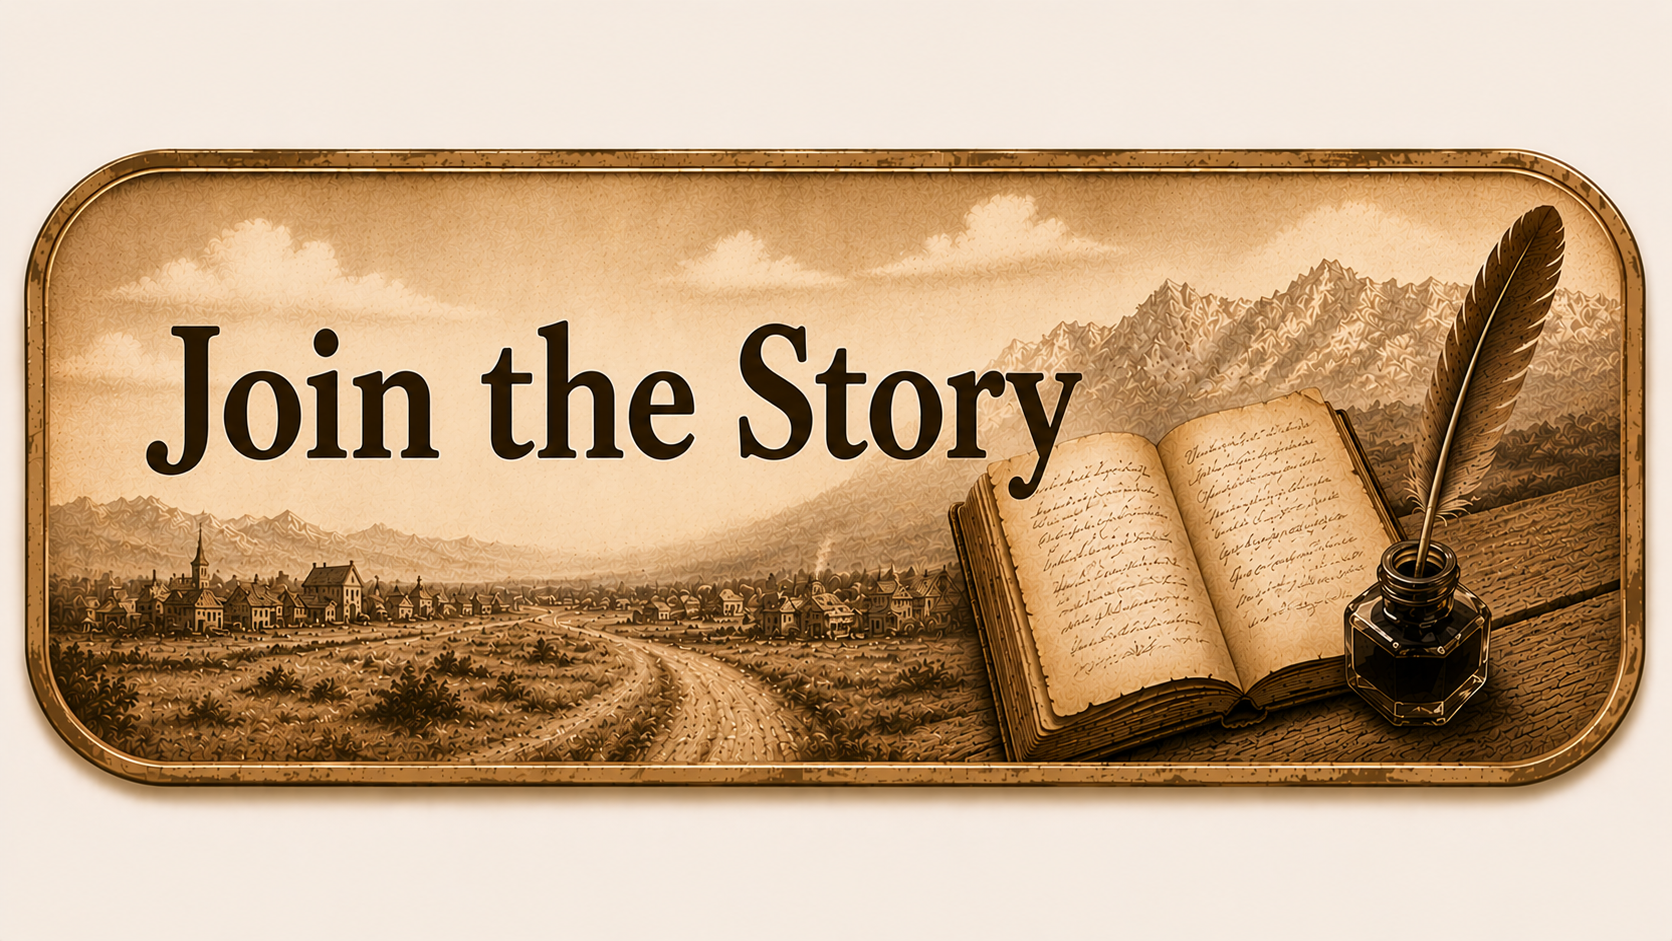
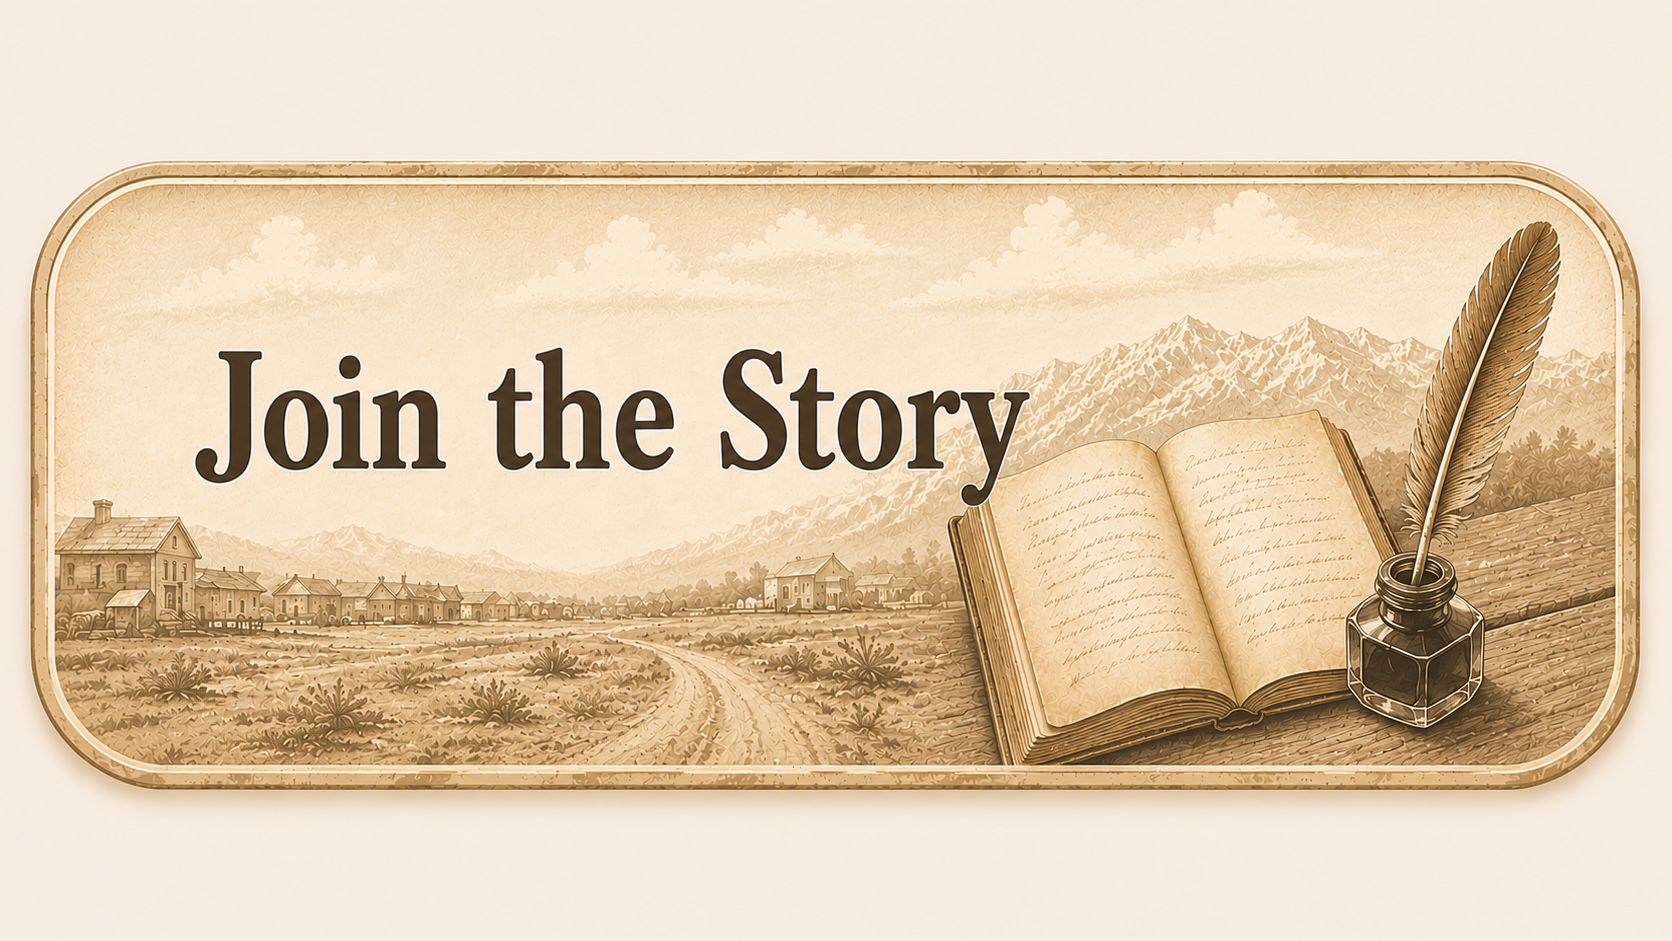
Add files via upload

diff --git a/support-us.html b/support-us.html
@@ -4,56 +4,10 @@
   <meta charset="utf-8">
   <meta name="viewport" content="width=device-width, initial-scale=1">
   <title>Join the Story | Hands on History Utah</title>
-  <meta name="description" content="Hands on History Utah is an interactive historical adventure where families and groups experience life in the 1800s through hands-on experiences, teamwork, and storytelling.">
-  <link rel="stylesheet" href="css/styles.css">
+  <meta http-equiv="refresh" content="0; url=join-the-story.html">
+  <link rel="canonical" href="join-the-story.html">
 </head>
-<body><header class="site-header">
-  <div class="nav-inner">
-    <a href="index.html" class="nav-link">Home</a>
-    <span class="star">★</span>
-    <a href="experience-life-in-the-1800s.html" class="nav-link">Experience Life in the 1800s</a>
-    <span class="star">★</span>
-    <a href="historical-adventure.html" class="nav-link">Historical Adventure</a>
-    <span class="star">★</span>
-    <a href="visit.html" class="nav-link">Visit</a>
-    <span class="star">★</span>
-    <a href="support-us.html" class="nav-link">Join the Story</a>
-    <span class="star">★</span>
-    <a href="volunteer.html" class="nav-link">Volunteer</a>
-    <span class="star">★</span>
-    <a href="about.html" class="nav-link">About</a>
-    <span class="star">★</span>
-    <a href="contact.html" class="nav-link">Contact</a>
-    <button class="menu-toggle" type="button" aria-label="Open navigation">Menu</button>
-  </div>
-</header>
-<main>
-  <section class="page-hero small-page-hero">
-    <h1>Join the Story</h1>
-    <p>There are many ways to help keep history alive — volunteer, donate, share family stories, attend events, preserve local history, and help build the future of Hands on History Utah.</p>
-  </section>
-  <section class="simple-content">
-    <div class="paper-panel">
-      <h2>More information coming soon</h2>
-      <p>This page will grow into the home for volunteering, donations, the history library, events, merchandise, family history ideas, and other ways to be part of the story.</p>
-      <p><a class="text-link" href="index.html">← Back to Home</a></p>
-    </div>
-  </section>
-</main>
-<footer class="site-footer">
-  <div class="footer-inner">
-    <div>
-      <img class="footer-logo" src="assets/logo-stagecoach.png" alt="Hands on History Utah logo">
-    </div>
-    <div>
-      <h2>Hands on History Utah</h2>
-      <p><em>Live the Story.</em></p>
-      <p>Friends of Camp Floyd<br>DBA Hands on History Utah</p>
-    </div>
-    <div>
-      <h3>Start here</h3>
-      <p><a href="visit.html">Plan Your Visit</a><br><a href="historical-adventure.html">Historical Adventure</a><br><a href="support-us.html">Join the Story</a></p>
-    </div>
-  </div>
-</footer><script src="js/main.js"></script>
-</body></html>
+<body>
+  <p>Redirecting to <a href="join-the-story.html">Join the Story</a>.</p>
+</body>
+</html>

diff --git a/index.html b/index.html
@@ -17,7 +17,7 @@
     <span class="star">★</span>
     <a href="visit.html" class="nav-link">Visit</a>
     <span class="star">★</span>
-    <a href="support-us.html" class="nav-link">Join the Story</a>
+    <a href="join-the-story.html" class="nav-link">Join the Story</a>
     <span class="star">★</span>
     <a href="volunteer.html" class="nav-link">Volunteer</a>
     <span class="star">★</span>
@@ -39,7 +39,7 @@
       <div class="hero-actions" aria-label="Main choices">
         <a class="image-button" href="experience-life-in-the-1800s.html"><img src="assets/button-family.png" alt="The Experience for the Family"></a>
         <a class="image-button" href="historical-adventure.html"><img src="assets/button-historical-adventure.png" alt="Historical Adventure"></a>
-        <a class="image-button" href="support-us.html"><img src="assets/button-join-story.png" alt="Join the Story"></a>
+        <a class="image-button" href="join-the-story.html"><img src="assets/button-join-story.png" alt="Join the Story"></a>
       </div>
       <a class="plan-button" href="visit.html">★&nbsp;&nbsp; Plan Your Visit &nbsp;&nbsp;★</a>
     </div>
@@ -64,7 +64,7 @@
     </div>
     <div>
       <h3>Start here</h3>
-      <p><a href="visit.html">Plan Your Visit</a><br><a href="historical-adventure.html">Historical Adventure</a><br><a href="support-us.html">Join the Story</a></p>
+      <p><a href="visit.html">Plan Your Visit</a><br><a href="historical-adventure.html">Historical Adventure</a><br><a href="join-the-story.html">Join the Story</a></p>
     </div>
   </div>
 </footer><script src="js/main.js"></script>

diff --git a/about.html b/about.html
@@ -17,7 +17,7 @@
     <span class="star">★</span>
     <a href="visit.html" class="nav-link">Visit</a>
     <span class="star">★</span>
-    <a href="support-us.html" class="nav-link">Join the Story</a>
+    <a href="join-the-story.html" class="nav-link">Join the Story</a>
     <span class="star">★</span>
     <a href="volunteer.html" class="nav-link">Volunteer</a>
     <span class="star">★</span>
@@ -52,7 +52,7 @@
     </div>
     <div>
       <h3>Start here</h3>
-      <p><a href="visit.html">Plan Your Visit</a><br><a href="historical-adventure.html">Historical Adventure</a><br><a href="support-us.html">Join the Story</a></p>
+      <p><a href="visit.html">Plan Your Visit</a><br><a href="historical-adventure.html">Historical Adventure</a><br><a href="join-the-story.html">Join the Story</a></p>
     </div>
   </div>
 </footer><script src="js/main.js"></script>

diff --git a/contact.html b/contact.html
@@ -17,7 +17,7 @@
     <span class="star">★</span>
     <a href="visit.html" class="nav-link">Visit</a>
     <span class="star">★</span>
-    <a href="support-us.html" class="nav-link">Join the Story</a>
+    <a href="join-the-story.html" class="nav-link">Join the Story</a>
     <span class="star">★</span>
     <a href="volunteer.html" class="nav-link">Volunteer</a>
     <span class="star">★</span>
@@ -52,7 +52,7 @@
     </div>
     <div>
       <h3>Start here</h3>
-      <p><a href="visit.html">Plan Your Visit</a><br><a href="historical-adventure.html">Historical Adventure</a><br><a href="support-us.html">Join the Story</a></p>
+      <p><a href="visit.html">Plan Your Visit</a><br><a href="historical-adventure.html">Historical Adventure</a><br><a href="join-the-story.html">Join the Story</a></p>
     </div>
   </div>
 </footer><script src="js/main.js"></script>

diff --git a/historical-adventure.html b/historical-adventure.html
@@ -17,7 +17,7 @@
     <span class="star">★</span>
     <a href="visit.html" class="nav-link">Visit</a>
     <span class="star">★</span>
-    <a href="support-us.html" class="nav-link">Join the Story</a>
+    <a href="join-the-story.html" class="nav-link">Join the Story</a>
     <span class="star">★</span>
     <a href="volunteer.html" class="nav-link">Volunteer</a>
     <span class="star">★</span>
@@ -52,7 +52,7 @@
     </div>
     <div>
       <h3>Start here</h3>
-      <p><a href="visit.html">Plan Your Visit</a><br><a href="historical-adventure.html">Historical Adventure</a><br><a href="support-us.html">Join the Story</a></p>
+      <p><a href="visit.html">Plan Your Visit</a><br><a href="historical-adventure.html">Historical Adventure</a><br><a href="join-the-story.html">Join the Story</a></p>
     </div>
   </div>
 </footer><script src="js/main.js"></script>

diff --git a/visit.html b/visit.html
@@ -17,7 +17,7 @@
     <span class="star">★</span>
     <a href="visit.html" class="nav-link">Visit</a>
     <span class="star">★</span>
-    <a href="support-us.html" class="nav-link">Join the Story</a>
+    <a href="join-the-story.html" class="nav-link">Join the Story</a>
     <span class="star">★</span>
     <a href="volunteer.html" class="nav-link">Volunteer</a>
     <span class="star">★</span>
@@ -52,7 +52,7 @@
     </div>
     <div>
       <h3>Start here</h3>
-      <p><a href="visit.html">Plan Your Visit</a><br><a href="historical-adventure.html">Historical Adventure</a><br><a href="support-us.html">Join the Story</a></p>
+      <p><a href="visit.html">Plan Your Visit</a><br><a href="historical-adventure.html">Historical Adventure</a><br><a href="join-the-story.html">Join the Story</a></p>
     </div>
   </div>
 </footer><script src="js/main.js"></script>

diff --git a/volunteer.html b/volunteer.html
@@ -17,7 +17,7 @@
     <span class="star">★</span>
     <a href="visit.html" class="nav-link">Visit</a>
     <span class="star">★</span>
-    <a href="support-us.html" class="nav-link">Join the Story</a>
+    <a href="join-the-story.html" class="nav-link">Join the Story</a>
     <span class="star">★</span>
     <a href="volunteer.html" class="nav-link">Volunteer</a>
     <span class="star">★</span>
@@ -52,7 +52,7 @@
     </div>
     <div>
       <h3>Start here</h3>
-      <p><a href="visit.html">Plan Your Visit</a><br><a href="historical-adventure.html">Historical Adventure</a><br><a href="support-us.html">Join the Story</a></p>
+      <p><a href="visit.html">Plan Your Visit</a><br><a href="historical-adventure.html">Historical Adventure</a><br><a href="join-the-story.html">Join the Story</a></p>
     </div>
   </div>
 </footer><script src="js/main.js"></script>

diff --git a/README.md b/README.md
@@ -1,21 +1,16 @@
 # Hands on History Utah Website
 
-Static website for Netlify.
+Static Netlify website.
 
-## Pages
+## Current pages
+
 - Home: index.html
 - Experience Life in the 1800s: experience-life-in-the-1800s.html
 - Historical Adventure: historical-adventure.html
 - Visit: visit.html
-- Support Us: support-us.html
+- Join the Story: join-the-story.html
 - Volunteer: volunteer.html
 - About: about.html
 - Contact: contact.html
 
-## Netlify
-Deploy by uploading these files to GitHub, then Netlify will publish from the root folder.
-No build command is needed.
-No publish directory is needed.
-
-## Logo
-Replace `assets/logo-placeholder.svg` with the final logo when ready.
+`support-us.html` redirects to `join-the-story.html` for older links.